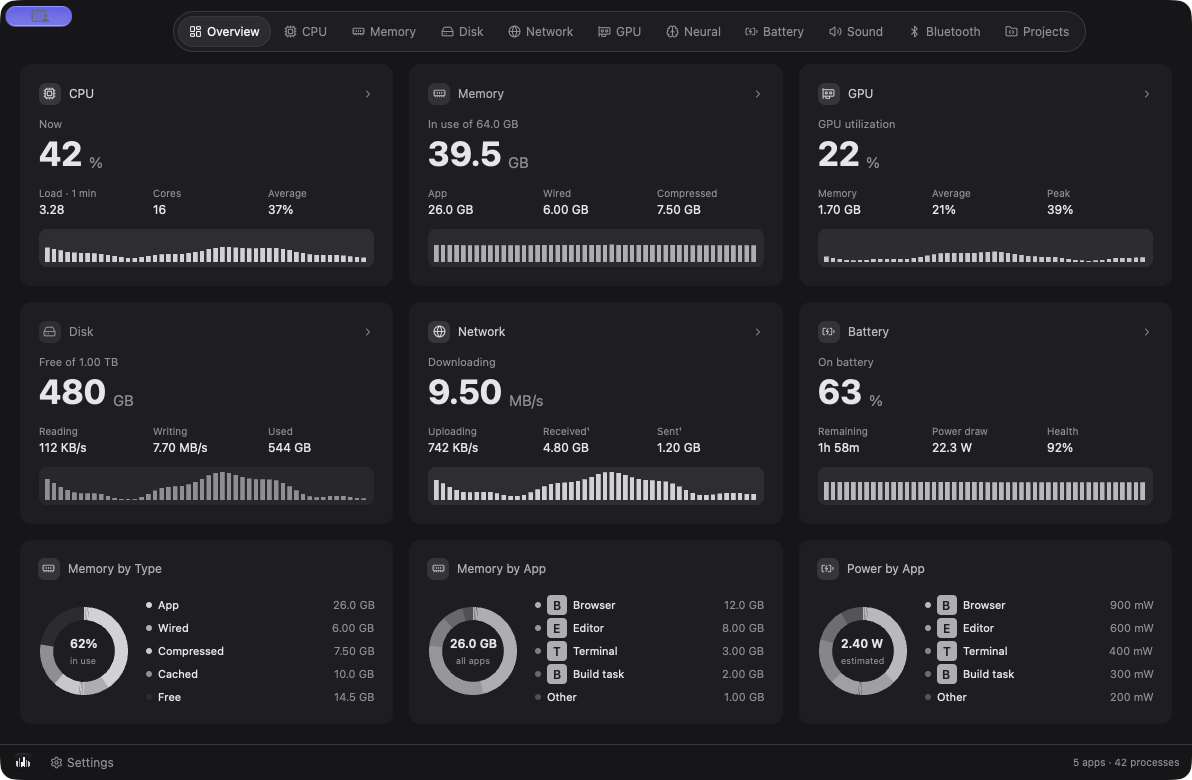
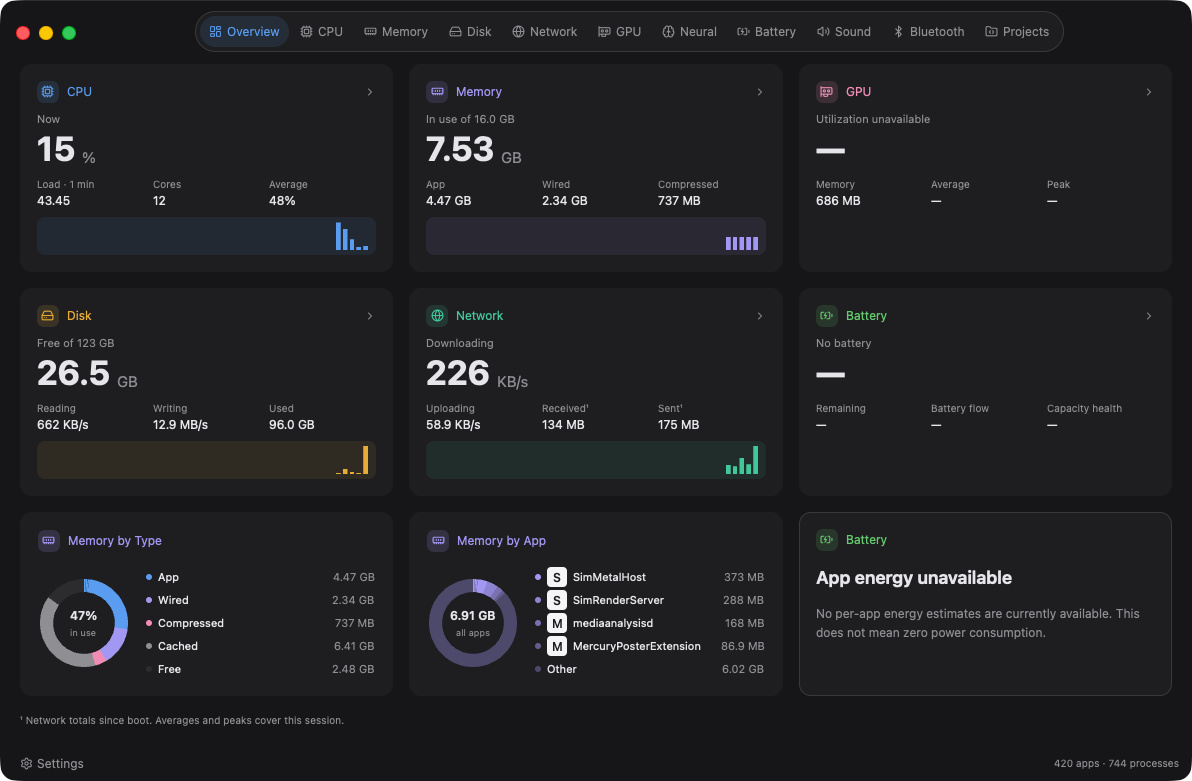
Archive dashboard captures and document 0.1.0 release recovery (#20)

diff --git a/assets/README.md b/assets/README.md
@@ -2,14 +2,34 @@
 
 ## Logo
 
-- `logo.png`: the generated graphite activity-bar icon, 1254 × 1254 pixels, with transparency outside the rounded tile. The app embeds this image and uses it as its native application icon and in the dashboard footer.
-- `tidegauge.icns`: the same artwork packaged at the standard macOS icon sizes, including 16, 32, 128, 256, and 512 pixels and their double-resolution variants. It is ready for a future app-bundle packaging workflow.
+- `logo.png`: the generated graphite activity-bar icon, 1254 × 1254 pixels, with transparency outside the rounded tile. The app embeds this image as its native application icon; the dashboard footer has no icon tile.
+- `tidegauge.icns`: the same artwork packaged at the standard macOS icon sizes, including 16, 32, 128, 256, and 512 pixels and their double-resolution variants. The app-bundle packaging workflow includes it.
 
 The app icon does not change the compact template symbol in the menu bar. That symbol keeps its native tint and metric layout.
 
-## Dashboard screenshot
+## Screenshot archive
 
-`dashboard.png`, 1192 × 780 pixels, shows the native dashboard in Graphite Night. The documentation capture uses generic sample data and generic app labels to avoid exposing personal process information. The UI and embedded artwork are the app implementation; the screenshot is not a measurement of a particular machine.
+These selected native-window captures from the October 2026 layout and
+localization pass are stored in Git, not dependent on external attachment
+hosting. They show the implementation consolidated in [PR #19](https://github.com/henrikogaard/tidegauge/pull/19).
+The traffic lights are unobstructed. Captures exclude personal paths,
+credentials, device serial numbers, and unrelated desktop windows.
+
+| Capture | Appearance / language | Data and purpose |
+|---|---|---|
+| [Dashboard](dashboard.png) | Dark / English | Live virtual-Mac overview; GPU utilization and battery unavailable |
+| [CPU light](screenshots/cpu-light.png) | Light / English | Live virtual-Mac CPU summary, chart, and ranked processes |
+| [CPU dark](screenshots/cpu-dark.png) | Dark / English | Same layout in dark appearance; captured at a different sampling time |
+| [Battery](screenshots/battery-fixture-dark-nb.png) | Dark / Norwegian | Explicitly labeled development fixture, not battery measurements |
+| [Disk](screenshots/disk-fixture-min-dark-nb.png) | Dark / Norwegian | Explicitly labeled development fixture at minimum window size |
+| [Settings light](screenshots/settings-en-light-min.png) | Light / English | Minimum-size Settings, near the top of the scrollable form |
+| [Settings dark](screenshots/settings-nb-dark-min.png) | Dark / Norwegian | Minimum-size Settings, scrolled to the lower controls |
+
+CPU and overview values belong to the development VM and are not generic
+mock readings. The battery/disk fixture banners must remain visible when
+reusing those images. None of these captures establishes physical sensor,
+battery, SMART, or signed-update compatibility. Settings captures include the
+native window shadow; no remote-control overlay covers the window controls.
 
 ## Generation prompt
 

diff --git a/docs/RELEASE-0.1.0.md b/docs/RELEASE-0.1.0.md
@@ -1,0 +1,58 @@
+# Tidegauge 0.1.0
+
+First Apple Silicon release candidate. The [GitHub release list](https://github.com/henrikogaard/tidegauge/releases)
+and linked workflow run are authoritative for draft/publication and signing
+status; these notes alone do not establish that a build has passed notarization.
+
+## Included
+
+- A native menu-bar monitor with a compact dashboard, neutral light/dark
+  surfaces, distinct metric colors, and English/Norwegian controls.
+- CPU, memory, network, and per-app activity, with icon loading off the
+  rendering path and summaries beside charts.
+- Read-only temperature/fan channels, device-scoped disk inventory and APFS
+  relationships, and battery charge/health/charging detail where available.
+- Project Stop/Stop All confirmation, PID deduplication, and owner/PID/start-time
+  checks immediately before SIGTERM. Sound remains display-only.
+- Production packaging with Developer ID signing, required notarization, and
+  signed update feeds verified against the app's embedded public key.
+
+## Installation and integrity
+
+Download `Tidegauge-0.1.0.zip` and its matching checksum from the same release.
+In their download directory, run:
+
+```sh
+shasum -a 256 -c Tidegauge-0.1.0.zip.sha256
+```
+
+Extract the ZIP and move `Tidegauge.app` into Applications. Do not bypass
+Gatekeeper or strip quarantine attributes if macOS rejects the bundle; report
+the failure. An unpublished draft is visible only to authorized repository
+users and is not a working public update feed.
+
+The archive, archive checksum, `appcast.xml`, and appcast checksum are the only
+release assets. Signing credentials and key backups are never release assets.
+
+## Known limitations and acceptance
+
+- Physical temperature/fan mappings, battery accuracy, internal/external SMART,
+  and sleep/reconnect behavior still require real-device validation. See
+  [sensors](SENSORS.md) and [disks](DISKS.md). Missing readings are not proof of
+  zero usage or healthy hardware.
+- Neural utilization is unavailable; GPU detail depends on exposed system
+  properties. Per-app watts are estimates, not measured system power.
+- Launch-at-login, appearance overrides, and custom alert preferences are not
+  fully applied. Stored history has no persisted-history browser yet.
+- Project Stop safeguards are implemented, but [issue #6](https://github.com/henrikogaard/tidegauge/issues/6)
+  retains follow-up acceptance for project/port presentation, eligibility
+  revalidation, and more specific termination outcomes.
+- No manual fan writes, power-mode controls, destructive disk actions, or
+  per-app audio controls are included.
+- A notarized build does not prove update delivery. The signed two-version
+  upgrade and invalid-signature rejection checks in [Releasing](RELEASING.md#upgrade-acceptance)
+  remain required before claiming end-to-end updater support.
+
+The [screenshot archive](../assets/README.md#screenshot-archive) separates live
+virtual-Mac readings from labeled layout fixtures. The [roadmap](https://github.com/henrikogaard/tidegauge/issues/12)
+tracks remaining feature work.

diff --git a/docs/RELEASING.md b/docs/RELEASING.md
@@ -170,6 +170,48 @@ clients. A draft release is not evidence of production update delivery; feed
 hosting, publishing, and end-to-end update acceptance remain release-owner
 responsibilities.
 
+## Signing-key custody and recovery
+
+The Ed25519 signing key is independent of GitHub. GitHub Actions stores a
+deployment copy, not a recoverable backup: its API cannot return the private
+value. Do not assume a saved automation secret can be revealed later.
+
+Keep the raw private key in a concealed password field in the release owner's
+password vault. Keep a portable password-encrypted `age` backup and its
+strong, independently chosen transfer password in the vault as well, with an
+appropriate offline recovery copy. This transfer password is not the vault's
+account password. Never commit the private key, certificate exports, API
+private keys, encrypted key backups, passwords, or vault recovery credentials.
+Only `packaging/sparkle-public-key.txt` belongs in source control.
+
+The password-encrypted backup is distinct from an older SSH-recipient backup:
+it needs only its transfer password, not an SSH identity or a GitHub account.
+On a trusted Mac with `age` installed, restore directly to the clipboard without
+printing the key or creating a plaintext file:
+
+```sh
+key="$(age --decrypt "$HOME/Downloads/Tidegauge-Sparkle-password-backup.age")" && printf '%s' "$key" | pbcopy && unset key && echo "Key copied to clipboard"
+```
+
+Enter the transfer password at the secure terminal prompt. Continue only if
+the command reports that the key was copied. Paste into the concealed vault
+field or the `TIDEGAUGE_SPARKLE_PRIVATE_KEY` Actions secret, then clear the
+clipboard with `pbcopy < /dev/null`. Never paste the encrypted file contents
+into the Actions secret. Do not put private values in shell command history,
+chat, screenshots, logs, issue bodies, or release attachments.
+
+Keep the same key when moving CI or hosting. Verify a restored key against the
+committed public key before accepting it; `release.sh` verifies the archive's
+signature using the public key embedded in the packaged app and fails closed
+on a mismatch. Key generation is not a recovery procedure. Rotation needs a
+planned, tested update path for already-installed clients.
+
+The current feed is hosted on GitHub. Before moving it, ship an update through
+the old feed that points clients to the new HTTPS address; keep the old feed
+available during migration. An update-feed address on an owner-controlled
+domain is preferable before public distribution, but no such address is
+configured here. A draft release does not make the production feed live.
+
 ## Upgrade acceptance
 
 End-to-end delivery is not claimed by this repository. Before a real release,

diff --git a/README.md b/README.md
@@ -8,7 +8,15 @@ A menu-bar system monitor for macOS, written in Rust with [gpui-kit](https://cra
 
 ![Tidegauge dashboard](assets/dashboard.png)
 
-Dashboard preview in Graphite Night, rendered with generic sample data.
+Current dashboard in dark appearance, captured on a virtual Mac. Readings
+describe that development environment, not physical-hardware validation.
+
+| Light appearance | Dark appearance |
+|---|---|
+| ![CPU in light appearance](assets/screenshots/cpu-light.png) | ![CPU in dark appearance](assets/screenshots/cpu-dark.png) |
+
+The [screenshot archive](assets/README.md#screenshot-archive) includes capture
+provenance, Norwegian layouts, and explicitly labeled hardware fixtures.
 
 ## Project status
 
@@ -43,7 +51,7 @@ Create an ad-hoc preview bundle after the optimized build:
 packaging/package-app.sh preview
 ```
 
-The packaging modes, signing prerequisites, and optional notarization flow are
+The packaging modes, signing prerequisites, and required production notarization flow are
 documented in [Releasing](docs/RELEASING.md). Production packaging fails closed
 when its signing credentials are unavailable.
 
@@ -54,6 +62,7 @@ when its signing credentials are unavailable.
 | Menu bar | One Tidegauge icon by default; optional labeled readings share the same native item |
 | Overview | Summary tiles and memory and power breakdowns on neutral surfaces with colorful metric accents |
 | Metric tabs | CPU, Memory, Disk, Network, GPU, Neural, and Battery |
+| Device telemetry | Read-only temperature/fan channels, per-drive capacity/APFS/activity/health, and battery health/charging detail where available |
 | App grouping | CPU, memory, disk counters, and estimated power grouped by executable bundle or parent app |
 | Sound | Output device and volume display, plus process audio state |
 | Bluetooth | Connected devices and available battery levels from `system_profiler` |
@@ -129,6 +138,8 @@ The sampler runs on a background thread. It publishes each completed `Snapshot` 
 - [Contributing](CONTRIBUTING.md): checks, manual verification, and review expectations.
 - [Design](DESIGN.md): colors, layout, and menu-bar behavior.
 - [Releasing](docs/RELEASING.md): bundle modes, signing prerequisites, and update acceptance.
+- [Signing-key recovery](docs/RELEASING.md#signing-key-custody-and-recovery): portable backups, restore checks, and hosting migration.
+- [0.1.0 release notes](docs/RELEASE-0.1.0.md): included capabilities and remaining acceptance checks.
 - [Recovery manifest](RECOVERY-MANIFEST.md): provenance of the recovered files.
 - [Historical findings](tidegauge-findings.md) and [historical test plan](tidegauge-test-plan.md): evidence from an earlier environment, not validation of the current checkout.
 
